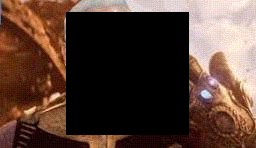
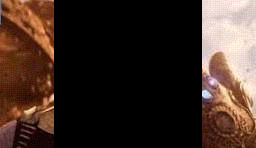
improved code

Changed region(s): [[0.1875, 0.0, 0.8125, 1.0]]

diff --git a/self_embedded_recovery.py b/self_embedded_recovery.py
@@ -197,11 +197,17 @@ class SelfEmbeddedWatermarker:
     @staticmethod
     def _correct_to_bucket(value, bucket):
         mean_value = np.mean(value)
-        guess = int(np.clip(np.rint(mean_value), 0, 255)) // 64
-        if guess == bucket:
+        low = bucket * 64
+        high = low + 63
+        if low <= mean_value <= high:
             return np.clip(value, 0, 255)
+        distance = low - mean_value if mean_value < low else mean_value - high
+        midpoint = low + 32
+        strength = min(1.0, distance / 64.0)
+        corrected_mean = mean_value + strength * (midpoint - mean_value)
+        corrected_mean = float(np.clip(corrected_mean, low, high))
         detail = value - mean_value
-        return np.clip((bucket * 64 + 32) + detail, 0, 255)
+        return np.clip(corrected_mean + detail, 0, 255)
 
     @staticmethod
     def _neighbour_average(blocks, row, col):

diff --git a/run_comparison.py b/run_comparison.py
@@ -35,8 +35,8 @@ def main():
     improved_watermarked = improved.embed_image(original, args.seed)
 
     if args.attacked is None:
-        baseline_attacked, attacked_pixels = baseline.apply_crop(baseline_watermarked, args.crop)
-        improved_attacked, _ = improved.apply_crop(improved_watermarked, args.crop)
+        improved_attacked, attacked_pixels = improved.apply_crop(improved_watermarked, args.crop)
+        baseline_attacked = improved_attacked.copy()
     else:
         baseline_attacked = improved.load_exact(args.attacked)
         improved_attacked = baseline_attacked.copy()

diff --git a/README.md b/README.md
@@ -112,6 +112,8 @@ Example table:
 
 The most important row for the improvement is **Tier-3 region PSNR**, because it isolates only the blocks where both primary recovery copies were destroyed. Whole-image averages dilute this effect because most blocks are already recovered by Tier 1 or Tier 2.
 
+Both methods are given the **same attacked image** (cropped from the improved watermarked image), so the recovery comparison is fair. The `Watermarked PSNR` row still reports each method's own embedding distortion.
+
 A CSV of the same table is written as `comparison.csv`.
 
 ---
@@ -312,6 +314,7 @@ They must be different.
 - If you see `use the saved watermarked_16bit.png, not an 8-bit preview`, you passed a normal 8-bit image to `--attacked`.
 - If you see a shape mismatch, your cropped image changed the image size.
 - Very smooth images may show only a small Tier-3 gain because neighbour averaging is already good there. High-contrast edges and highlights show the benefit most clearly.
+- If you compare methods, do not crop each method's watermarked image separately: that gives the baseline a hidden quality advantage and can make the improved method look worse. `run_comparison.py` avoids this by cropping one watermarked image once and attacking both methods with it.
 
 ---
 
